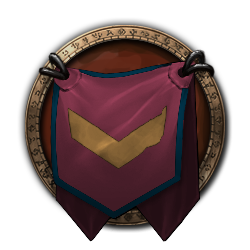
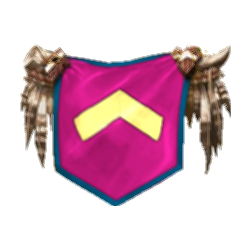
Use the guild's own image of the original 2009 tabard
The 2009 tabard is now the guild's in-game image, hot pink with a teal
edge and a pale yellow chevron pointing up, centered on the same
250x250 transparent canvas as the others. Copy, alt text, Fig. I and
the banner meanings move from burgundy and gold to its real colors.

diff --git a/src/data/tabards.ts b/src/data/tabards.ts
@@ -1,7 +1,8 @@
 // The guild's in-game tabards, as the guild provided them (250 × 250, transparent).
 // Show them as they are: never recolored, filtered or cropped. See BRAND.md.
 // `current` is the tabard the guild uses today: use it wherever the site stands for the guild now.
-// `original` and `beast` are history (the 2009 and 2010 tabards).
+// `original` and `beast` are history (the 2009 and 2010 tabards). `original` is the guild's in-game image of it,
+// centered on the same 250 × 250 transparent canvas; unlike the other two, it has no bronze frame.
 import current from '../assets/tabards/werewolf-orgasmahowl-2026-gray.png';
 import original from '../assets/tabards/werewolf-orgasmahowl-2009.png';
 import beast from '../assets/tabards/bearwolftriceratiger-2010.png';
@@ -10,17 +11,17 @@ export const tabards = {
   current: {
     image: current,
     name: 'Werewolf Orgasmahowl',
-    alt: 'The Werewolf Orgasmahowl guild tabard: a silver-gray banner edged in black with a black chevron, hanging in a round bronze frame.',
+    alt: 'The Werewolf Orgasmahowl guild tabard: a silver-gray banner edged in black with a black chevron pointing down, hanging in a round bronze frame.',
   },
   original: {
     image: original,
     name: 'Werewolf Orgasmahowl (2009)',
-    alt: 'The original 2009 Werewolf Orgasmahowl guild tabard: a burgundy banner edged in teal with a gold chevron, hanging in a round bronze frame.',
+    alt: 'The original 2009 Werewolf Orgasmahowl guild tabard: a hot pink banner edged in teal with a pale yellow chevron pointing up, hung with fringed brown trim at both top corners.',
   },
   beast: {
     image: beast,
     name: 'Bearwolftriceratiger',
-    alt: 'The Bearwolftriceratiger guild tabard: a yellow-green banner edged in black with a black chevron, hanging in a round bronze frame.',
+    alt: 'The Bearwolftriceratiger guild tabard: a yellow-green banner edged in black with a black chevron pointing up, hanging in a round bronze frame.',
   },
 };
 
@@ -42,15 +43,16 @@ export const bannerHistory: {
     tabard: tabards.original,
     when: '2009',
     title: 'Founded as Werewolf Orgasmahowl',
-    text: 'Burgundy, teal and gold. The original pack.',
+    text: 'Hot pink, teal and yellow. The original pack.',
     meaning: {
       colors: [
-        { name: 'Burgundy', hex: '#7a2848', text: 'The blood of the Alliance zerg, spilled at the Lumber Mill. It never washed out, so the pack wore it.' },
-        { name: 'Teal', hex: '#1f5761', text: 'Moonlight on the walls of Shadowfang Keep, where the Saint first stood with the Worgen.' },
-        { name: 'Gold', hex: '#b8923c', text: 'The halo of Saint Hornatius Orgasmahowl, worn over the heart of every packmate who carries his cry.' },
+        { name: 'Hot pink', hex: '#dd208d', text: 'Chosen so the Alliance could see the pack coming from across Arathi Basin. The pack never once tried to sneak up on anyone.' },
+        { name: 'Teal', hex: '#1d648e', text: 'Moonlight on the walls of Shadowfang Keep, where the Saint first stood with the Worgen.' },
+        { name: 'Yellow', hex: '#f5ea84', text: 'The halo of Saint Hornatius Orgasmahowl, worn over the heart of every packmate who carries his cry.' },
       ],
-      chevronHex: '#b8923c',
-      chevron: 'Two wolf ears pinned back for the charge.',
+      chevronHex: '#f5ea84',
+      chevronUp: true,
+      chevron: 'A wolf’s snout raised to the moon, mid-howl.',
     },
   },
   {
@@ -66,7 +68,7 @@ export const bannerHistory: {
       ],
       chevronHex: '#000000',
       chevronUp: true,
-      chevron: 'A horn raised to the lightning. The Beast flipped the old chevron over the night it rose, and nobody dared flip it back.',
+      chevron: 'A horn raised to the lightning. The Beast kept the first banner’s chevron pointing up, and burned it black.',
     },
   },
   {
@@ -80,7 +82,7 @@ export const bannerHistory: {
         { name: 'Black', hex: '#000000', text: 'The bleakness of the reckoning that destroyed the original Werewolf Orgasmahowl, remembered and repurposed, just as the guild.' },
       ],
       chevronHex: '#000000',
-      chevron: 'A V for victory, pointing down like the first banner.',
+      chevron: 'A V for victory: the first of the pack’s chevrons to point down, turned over for the return.',
     },
   },
 ];

diff --git a/src/styles/tempest-art.css b/src/styles/tempest-art.css
@@ -17,7 +17,7 @@
 .art-svg { width: 100%; height: auto; overflow: visible; }
 
 /* Fig. I: the frozen name */
-.frozen-word { font-family: var(--f-sign); font-size: 34px; letter-spacing: 0.04em; fill: #c9a646; }
+.frozen-word { font-family: var(--f-sign); font-size: 34px; letter-spacing: 0.04em; fill: #f5ea84; }
 .frozen-snow { animation: snow-drift 3s linear infinite; }
 @keyframes snow-drift { from { transform: translate(0, -20px); } to { transform: translate(-24px, 0); } }
 .frozen-break { transform-box: view-box; transform-origin: 340px 110px; animation: name-break 5s ease-in-out infinite; }

diff --git a/CONTENT.md b/CONTENT.md
@@ -28,7 +28,7 @@ Nav: HOME · RECRUITMENT · LAUNCH (signal yellow, with a blinking pink square) 
 1. **Hero:** stacked wordmark <WEREWOLF / ORGASMAHOWL> (pink < and white >), then the line `WORLD OF WARCRAFT FOREVER · NORTH AMERICA · HORDE · LOW-LEVEL BATTLEGROUNDS`, the tagline "A PvP guild for enjoyers of lower-level PvP in World of Warcraft Forever", and the buttons **JOIN THE DISCORD** (primary) and **SEE RECRUITMENT** (secondary).
 2. **Launch strip:** a pink-bordered link to `/launch`: BLAST OFF, "Tuesday, March 23, 2027 · 8 PM ET", "The first <WO> guild run", and a live day count to liftoff ("127 days to go").
 3. **About:** "<WO> is a collective of like-minded PvPers focused on lower-level battlegrounds in World of Warcraft Forever." and "The guild was originally founded in 2009.", next to a facts box (game, region, faction, focus, recruiting status).
-4. **Our history** ("Three tabards, one pack"): three cells, each with a tabard. 2009 · Founded as Werewolf Orgasmahowl (the original burgundy tabard: "Burgundy, teal and gold. The original pack.") · 2010 · Renamed Bearwolftriceratiger ("Blizzard's naming rules forced a new name, and the guild became the Beast, in black and bright yellow.", with READ THE SAGA) · Now · Werewolf Orgasmahowl again (the current tabard, silver-gray with a black edge and a black chevron: "The original name is back, now in World of Warcraft Forever, just with a <WO> guild name."). Hovering, focusing or tapping a cell inverts it and shows READING THE BANNER: what each of the tabard's colors and its chevron stand for in the guild mythos (for example, the 2009 gold is the Saint's halo, the 2010 yellow is the lightning that fused the four beasts, today's silver is the full moon). A HOVER TO READ THE BANNER hint (TAP on touch screens) sits on each cell. Copy, including the meanings, in `src/data/tabards.ts`.
+4. **Our history** ("Three tabards, one pack"): three cells, each with a tabard. 2009 · Founded as Werewolf Orgasmahowl (the original hot pink tabard, with a teal edge and a yellow chevron pointing up: "Hot pink, teal and yellow. The original pack.") · 2010 · Renamed Bearwolftriceratiger ("Blizzard's naming rules forced a new name, and the guild became the Beast, in black and bright yellow.", with READ THE SAGA) · Now · Werewolf Orgasmahowl again (the current tabard, silver-gray with a black edge and a black chevron: "The original name is back, now in World of Warcraft Forever, just with a <WO> guild name."). Hovering, focusing or tapping a cell inverts it and shows READING THE BANNER: what each of the tabard's colors and its chevron stand for in the guild mythos (for example, the 2009 hot pink lets the Alliance see the pack coming, its yellow is the Saint's halo, the 2010 yellow is the lightning that fused the four beasts, today's silver is the full moon). A HOVER TO READ THE BANNER hint (TAP on touch screens) sits on each cell. Copy, including the meanings, in `src/data/tabards.ts`.
 5. **FAQ** (`#faq`, "Before you queue"): thirteen questions as expandable rows, answers in `guild.faq`. What is Werewolf Orgasmahowl? · Does <WO> Raid? (no, never) · Which bracket does <WO> play? (Level 39) · What class or spec? (any) · Which realm? (none: the game has no realms) · What is a Bearwolftriceratiger? (the 2010 rename; links to its saga) · Do I need a fully geared twink? (investment is up to each player, who funds and gears their own character; the guild will help where it can) · When do you queue? (whenever people are available; no premades yet, just a few friends carrying the pickup group) · Do I need to be on voice chat? (optional, but fun) · What kind of player fits in here? (the recruitment expectations) · How do I join? (join the Discord, answer the welcome questions, post in #applications, no trial; links to How to apply) · Who is Saint Hornatius Orgasmahowl? (links to the Lore) · What does HAROOOO mean? (links to the Howl Lab).
 6. **Saint teaser:** the Warsong Gulch relic image, "THE LIFE OF SAINT HORNATIUS ORGASMAHOWL", one line, and a link: READ THE LORE.
 7. **Closing call to action:** a full-width accent band reading **HAROOOO!** (click it to hear the Saint's cry; it shakes while it plays) with the JOIN THE DISCORD button.
@@ -109,7 +109,7 @@ Around the Tellings, the page also has:
 - **The war dance:** while the war drums play, a scene rises from the bottom of the screen: six pack warriors dance in a ring around the Beast as it rears up, ending in a leap and a roar on the final hit.
 - **Hero:** BEWARE, "The saga of the BEAR WOLF TRICERA TIGER", "Four beasts. Three horns. One roar.", vitals (Born in the Year of the Blizzard (2010) · Guardian of the Pack · Black & Lightning), **Sound the war drums**, and the hint "Psst: click anywhere in the storm to call down lightning."
 - **Hazard tape:** nine names of the Beast, scrolling.
-- **Inline art:** Fig. I "The name, frozen solid and snapped from the banner.", drawn as the burgundy Werewolf Orgasmahowl tabard (Telling I); four painting details, "Where each of the four echoes lives on in the Beast." (the claw, the jaws, the horns, the hide; Telling II); Fig. II "The tabard the storm left behind.", the real Bearwolftriceratiger tabard, with swatches "Black for the storm that took the old name" and "Bright yellow for the lightning, and the Tiger's eye" (Telling IV); Fig. III "On the night of the Blizzard, the Beast kneels." (Telling VI). Each deed has a detail beside it: "The armored chest", "Whose legs?", "One, two, three". The field card has an ID photo, "Specimen I, detail". The Beast's silhouette sigil sits behind the hero title and above the closing cry.
+- **Inline art:** Fig. I "The name, frozen solid and snapped from the banner.", drawn as the hot pink Werewolf Orgasmahowl tabard (Telling I); four painting details, "Where each of the four echoes lives on in the Beast." (the claw, the jaws, the horns, the hide; Telling II); Fig. II "The tabard the storm left behind.", the real Bearwolftriceratiger tabard, with swatches "Black for the storm that took the old name" and "Bright yellow for the lightning, and the Tiger's eye" (Telling IV); Fig. III "On the night of the Blizzard, the Beast kneels." (Telling VI). Each deed has a detail beside it: "The armored chest", "Whose legs?", "One, two, three". The field card has an ID photo, "Specimen I, detail". The Beast's silhouette sigil sits behind the hero title and above the closing cry.
 - **Warning placard:** "Read before approaching the Beast", the proem, signed "Set down by Roadieoh, High Tauren Librarian".
 - **Know Your Beast:** a field card (horns, beasts inside, stripes, habitat, diet, temperament, danger: EXTREME).
 - **Awaken the Four:** "The four echoes still sleep inside the Beast. Wake all four, and the storm may grant a fusion." When all four are awake: "Fusion! The Beast is whole. HAROOOARRR!" Then **Let them sleep**.

diff --git a/BRAND.md b/BRAND.md
@@ -122,7 +122,7 @@ Monospace runs wide (about 0.62em per letter). Check that ORGASMAHOWL fits at ph
 - The guild name is cheeky; keep the rest of the copy straightforward.
 - Never call guild members "pups". Use "packmates", "the pack" or "the faithful".
 - Never invent facts. Use placeholders until they're provided: `[CLASS]`, `[ROLE]`, `[DISCORD INVITE]`, `[YOUR TAGLINE]`.
-- Don't use Blizzard or World of Warcraft logos, crests or game art. **Exception: the guild tabards.** The guild's in-game tabards (`src/assets/tabards/`, data in `src/data/tabards.ts`): the **current** Werewolf Orgasmahowl tabard, silver-gray with a black edge and a black chevron, used wherever the site stands for the guild today; and two older ones, kept for history: the **original** Werewolf Orgasmahowl tabard from 2009, burgundy with a teal edge and a gold chevron, and the 2010 **Bearwolftriceratiger** tabard, yellow-green with a black edge and chevron. They may appear anywhere on the site. Show them whole, on their transparent background, never recolored, filtered or cropped; they carry their own round bronze frame, so they need no ink frame. Small square swatches of a tabard's own colors may sit next to it (the Our history cells on the home page). Where a drawing needs one of the banners (like Fig. I on the Bearwolftriceratiger page), redraw it in its own colors. **Exception:** the two Lore pages may show the guild's own images, and only there: the Saint's relics on `/lore` (fan-art edits, with orc heads and Pendulum of Doom axes on classical paintings) and the Bearwolftriceratiger painting on `/bearwolftriceratiger` (the guild's 2010 beast image). Show each one framed, never recolored or filtered.
+- Don't use Blizzard or World of Warcraft logos, crests or game art. **Exception: the guild tabards.** The guild's in-game tabards (`src/assets/tabards/`, data in `src/data/tabards.ts`): the **current** Werewolf Orgasmahowl tabard, silver-gray with a black edge and a black chevron pointing down, used wherever the site stands for the guild today; and two older ones, kept for history: the **original** Werewolf Orgasmahowl tabard from 2009, hot pink with a teal edge and a pale yellow chevron pointing up, and the 2010 **Bearwolftriceratiger** tabard, yellow-green with a black edge and a black chevron pointing up. The original's file is the guild's in-game image of it, with fringed trim at the top corners and no bronze frame. They may appear anywhere on the site. Show them whole, on their transparent background, never recolored, filtered or cropped; they need no ink frame (the current and Bearwolftriceratiger tabards carry their own round bronze frame). Small square swatches of a tabard's own colors may sit next to it (the Our history cells on the home page). Where a drawing needs one of the banners (like Fig. I on the Bearwolftriceratiger page), redraw it in its own colors. **Exception:** the two Lore pages may show the guild's own images, and only there: the Saint's relics on `/lore` (fan-art edits, with orc heads and Pendulum of Doom axes on classical paintings) and the Bearwolftriceratiger painting on `/bearwolftriceratiger` (the guild's 2010 beast image). Show each one framed, never recolored or filtered.
 - Icons are inline stroke SVG with square caps and `currentColor`. No emoji.
 
 ## Launch page: Blast off
@@ -184,7 +184,7 @@ The Bearwolftriceratiger page (`/bearwolftriceratiger`) also breaks the brutalis
 - **Shape:** square corners, thick yellow borders, hard offset shadows (no blur), black-and-yellow hazard stripes, and tiger-stripe bands (yellow with black fur wedges). Only the specimen frame gets cut corners.
 - **Pieces:** a storm hero with a stacked BEAR / WOLF / TRICERA / TIGER title, hazard tape scrolling the Beast's names, a warning placard for the proem, outlined-numeral chapter tiles, six Tellings with claw marks that slash in as each heading scrolls into view, a specimen frame for the painting, a Know Your Beast field card, Awaken the Four, the Laws of the Pack, the Oath of the Charge, and a yellow hazard-striped closing band.
 - **Icons:** inline SVG symbols in `src/components/BeastIcons.astro` (bolt, claw marks, paw, warning sign, the four beasts, the stripe band, and the sigil: a full-body silhouette of the Beast in the painting's charging pose, facing left, with a triceratops frill and knobbed spikes, two long brow horns and a nose horn, a hooked, open, fanged beak, the raised bear paw with hooked claws, a tiger-striped body, three planted clawed legs and a curled tail). Keep it a silhouette: solid shapes, with only the eye, stripes and a few seams cut out. The sigil sits faintly behind the hero title and in black on the closing band; set `--sigil-cut` to the background color.
-- **Inline art** (`src/components/BeastArt.astro`, placed in the saga with `{ art }` blocks): Fig. I, the frozen name snapping off the banner, drawn as the burgundy Werewolf Orgasmahowl tabard with its teal edge and gold chevron (Telling I; the one place outside the Storm palette, because it's the old banner); the four echoes as details of the painting (Telling II); Fig. II, the real Bearwolftriceratiger tabard, swaying in a yellow glow, with two color swatches (Telling IV); and Fig. III, the Saint on the ice with the Beast kneeling (Telling VI). Illustrations use only the Storm palette, flat shapes, bevel joins and no gradients.
+- **Inline art** (`src/components/BeastArt.astro`, placed in the saga with `{ art }` blocks): Fig. I, the frozen name snapping off the banner, drawn as the hot pink Werewolf Orgasmahowl tabard with its teal edge and yellow chevron (Telling I; the one place outside the Storm palette, because it's the old banner); the four echoes as details of the painting (Telling II); Fig. II, the real Bearwolftriceratiger tabard, swaying in a yellow glow, with two color swatches (Telling IV); and Fig. III, the Saint on the ice with the Beast kneeling (Telling VI). Illustrations use only the Storm palette, flat shapes, bevel joins and no gradients.
 - **Painting details** (`src/components/BeastCrop.astro`): close-up crops of the painting (claw, jaws, horns, hide, chest, feet in the surf, head), given in the painting's own pixels and zoomed by the browser. They're framed in 4px yellow with a hard storm-gray shadow and never recolored or filtered. They appear in Telling II, beside each deed and as the field card's ID photo. The painting is only 400 × 368, so keep details small (about 220px wide at most).
 - **Layered motion:**
   - drifting storm clouds,
